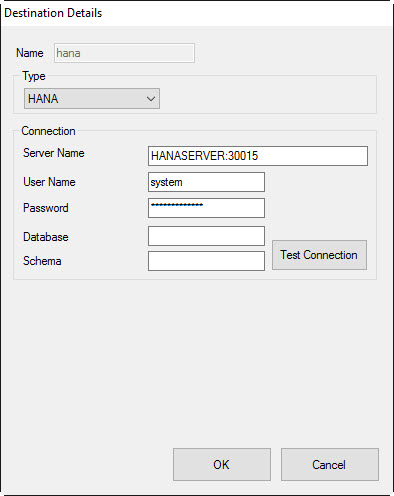
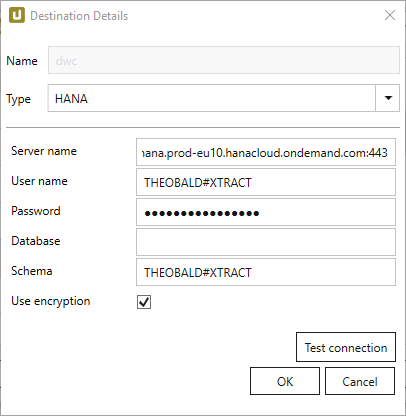
XU: DE/EN: HANA-Destination: DWC ergänzt

diff --git a/content/_de/xtract-universal/xu-destinationen/hana/hana-voraussetzungen.md b/content/_de/xtract-universal/xu-destinationen/hana/hana-voraussetzungen.md
@@ -11,11 +11,11 @@ lang: de_DE
 old_url: /Xtract-Universal-DE/default.aspx?pageid=hana-voraussetzungen
 ---
 
-Für die Verbindung zur HANA Datenbank ist der SAP HANA Data Provider for Microsoft ADO .NET notwendig.<br>
-Dieser ist Bestandteil des SAP HANA Client Setups.<br>
+Für die Verbindung zur HANA Datenbank wird der *SAP HANA Data Provider for Microsoft ADO.NET* benötigt.<br>
+Dieser ist Bestandteil des [SAP HANA Client Setups](https://blogs.sap.com/2017/12/14/sap-hana-2.0-client-installation-and-update-by-the-sap-hana-academy/).<br>
 
-**ACHTUNG:** Für die Nutzung der HANA Destination ist der HANA Data Provider in der **Version 2.3.130** notwendig. Andere Versionen werden nicht funktionieren.
-
-Informationen zum [SAP HANA Client Version 2.0](https://blogs.sap.com/2017/12/14/sap-hana-2.0-client-installation-and-update-by-the-sap-hana-academy/). 
+ {: .box-note }
+**Hinweis:**
+Für die Nutzung der HANA-Destination wird die Version 2.6.61 des SAP HANA Data Providers benötigt. Andere Versionen funktionieren nicht.
 
 Weitere Infos finden Sie in der [SAP Help](https://help.sap.com/viewer/0eec0d68141541d1b07893a39944924e/2.0.00/en-US/469dee9e6d611014af70d4e9a9cd6b0a.html).

diff --git a/content/_de/xtract-universal/xu-destinationen/hana/hana-verbindung.md b/content/_de/xtract-universal/xu-destinationen/hana/hana-verbindung.md
@@ -11,26 +11,30 @@ lang: de_DE
 old_url: /Xtract-Universal-DE/default.aspx?pageid=hana-verbindung
 ---
 
-Folgende Einstellungen können für die Verbindung zur Zieldatenbank definiert werden.
+Folgende Einstellungen können für die Verbindung zur Zielumgebung (SAP HANA-Datenbank und SAP DWC) definiert werden.
 
 
 ![hana-destination](/img/content/hana-destination.png){:class="img-responsive"}
+![hana-destination](/img/content/hana-destination2.png){:class="img-responsive"}
 
 
 **Server Name**<br>
-Name des Datenbank-Servers.
+Adresse, unter der die SAP HANA-/DWC-Zielumgebung erreichbar ist; einschließlich Port. 
 
 **User Name**<br>
-einen Benutzernamen und 
+SAP HANA/DWC-Benutzername.
 
 **Password**<br>
-ein Passwort.
+Passwort des SAP HANA/DWC-Benutzers.
 
 **Database**<br> 
 Name der Datenbank.
 
 **Schema**<br> 
-Name des Datenbanknschemas.
+Name des Datenbankschemas.
+
+**Use encryption**<br>
+Schaltet Verschlüsselung ein. Wird bei der Verbindung zur SAP DWC benötigt.
              
 **Test Connection**<br>
-Klicken Sie auf den Knopf, um die Datenbankverbindung zu testen.  
+Schaltfläche, um die Verbindung zur Zielumgebung zu testen.

diff --git a/content/_en/xtract-universal/xu-destinations/sap-hana/hana-requirements.md b/content/_en/xtract-universal/xu-destinations/sap-hana/hana-requirements.md
@@ -11,12 +11,13 @@ lang: en_GB
 old_url: /Xtract-Universal-EN/default.aspx?pageid=haha-requirements
 ---
 
-For establishing a connection to the HANA database the SAP HANA Data Provider for Microsoft ADO .NET is required.<br>
-This data provider is part of the SAP HANA Client setup.<br> 
+For establishing a connection to the HANA database or SAP DWC the *SAP HANA Data Provider for Microsoft ADO.NET* is required.<br>
+This data provider is part of the [SAP HANA Client setup[(https://blogs.sap.com/2017/12/14/sap-hana-2.0-client-installation-and-update-by-the-sap-hana-academy/)).<br> 
 
-**ATTENTION:** The HANA destination will only work with HANA data provider version 2.3.130.
+ {: .box-note }
+**Note:**
+The HANA destination only works with SAP HANA data provider version 2.6.61.
 
-Please install the [SAP HANA Client 2.0](https://blogs.sap.com/2017/12/14/sap-hana-2.0-client-installation-and-update-by-the-sap-hana-academy/) to install the required data provider. 
 
 For more information refer to [SAP Help](https://help.sap.com/viewer/0eec0d68141541d1b07893a39944924e/2.0.00/en-US/469dee9e6d611014af70d4e9a9cd6b0a.html).
 

diff --git a/content/_en/xtract-universal/xu-destinations/sap-hana/hana-connection.md b/content/_en/xtract-universal/xu-destinations/sap-hana/hana-connection.md
@@ -11,19 +11,21 @@ lang: en_GB
 old_url: /Xtract-Universal-EN/default.aspx?pageid=hana-connection
 ---
 
-The following settings can be defined for the HANA database connection. 
+The following settings can be defined for the HANA database or SAP DWC connection. 
 
 ![hana-destination](/img/content/hana-destination.png){:class="img-responsive"}
 
+![hana-destination](/img/content/hana-destination2.png){:class="img-responsive"}
+
 
 **Server Name**<br>
-Defines the name of the server (including the port number).
+Defines the address of the server (including the port number). Note the different port numbers for HANA and DWC (see screenshots).
 
 **User Name**<br>
-Defines the user name 
+Defines the SAP HANA/DWC user name. 
 
 **Password**<br>
-Defines the user password
+Defines the user password.
 
 **Database**<br> 
 Defines the name of the database.
@@ -31,6 +33,8 @@ Defines the name of the database.
 **Schema**<br>
 Defines the name of the database schema.
 
+**Use encryption**<br>
+Activates connection encryption. Is required when connecting to SAP DWC.
 
 **Test Connection**<br>
 Checks the database connection.  

diff --git a/content/_en/xtract-universal/xu-destinations/sap-hana.md b/content/_en/xtract-universal/xu-destinations/sap-hana.md
@@ -13,6 +13,8 @@ old_url: /Xtract-Universal-EN/default.aspx?pageid=hana
 progressstate: 5
 ---
 
-The following section describes the loading of the SAP extraction data to a HANA Database destination. 
+The following section describes how to setup Xtract Universal's HANA destination.
+The HANA destination supports loading SAP data to a SAP HANA database and to SAP's Data Warehouse Cloud (DWC). <br>
+
 
 {% include _content/table-of-contents.html parent=page.childidentifier collection=site.en %}

diff --git a/content/_de/xtract-universal/xu-destinationen/hana/hana-einstellungen.md b/content/_de/xtract-universal/xu-destinationen/hana/hana-einstellungen.md
@@ -24,7 +24,7 @@ Die folgenden Einstellungen können für die Destination definiert werden.
 ![ext_spec_set_de_form_debug](/img/content/dest_set_hana.png){:class="img-responsive"}
 
 {% include _content/de/xu-specific/xu-destinations/general/table-name.md %}
-### Column name style
+
 {% include _content/de/xu-specific/xu-destinations/general/column-name-style.md %}
 
 {% include _content/de/xu-specific/xu-destinations/general/date-conversion.md %}

diff --git a/content/_en/xtract-universal/xu-destinations/sap-hana/hana-settings.md b/content/_en/xtract-universal/xu-destinations/sap-hana/hana-settings.md
@@ -22,7 +22,7 @@ The following settings can be defined for the destination:
 ![ext_spec_set_de_form_debug](/img/content/dest_set_hana.png){:class="img-responsive"}
 
 {% include _content/en/xu-specific/xu-destinations/general/table-name.md %}
-### Column name style
+
 {% include _content/en/xu-specific/xu-destinations/general/column-name-style.md %}
 
 {% include _content/en/xu-specific/xu-destinations/general/date-conversion.md %}

diff --git a/content/_de/xtract-universal/xu-destinationen/hana.md b/content/_de/xtract-universal/xu-destinationen/hana.md
@@ -12,7 +12,9 @@ lang: de_DE
 progressstate: 5
 ---
 
-Der folgende Abschnitt behandelt das Laden der SAP-Extraktionsdaten in eine HANA-Zieldatenbank.  
+Der folgende Abschnitt behandelt das Laden der SAP-Extraktionsdaten in eine HANA-Zieldatenbank oder in die SAP Data Warehouse Cloud (DWC).  
+
+
 
 
 {% include _content/table-of-contents.html parent=page.childidentifier collection=site.de %}
